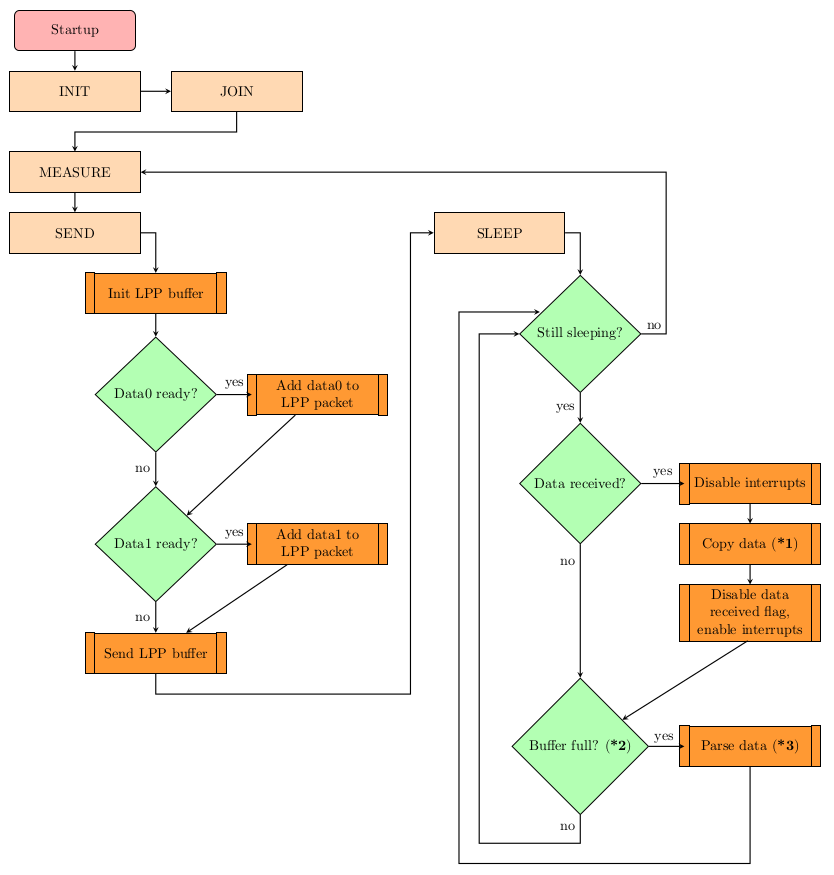
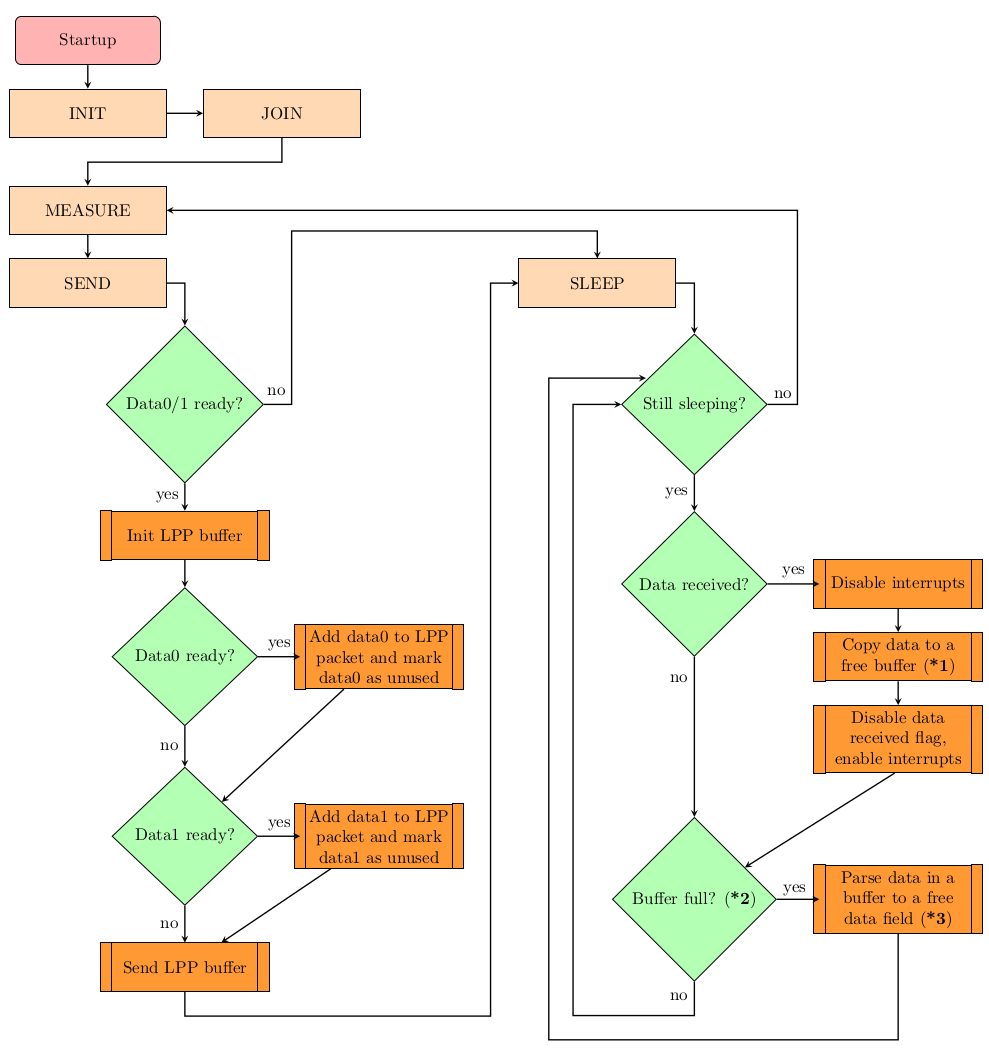
Add extra check to not send empty LPP packet and update flowchart

Changed region(s): [[0.0, 0.0, 0.9976, 1.0]]

diff --git a/EFM32-RN2483-Masterbuoy/src/main.c b/EFM32-RN2483-Masterbuoy/src/main.c
@@ -239,83 +239,89 @@ int main(void){
 			case SEND_MEASUREMENTS:{
 				/* BEGIN ADDED CODE *****************************************************************************************/
 				dbprintln("> SEND MEASUREMENTS");
-				/* END ADDED CODE *******************************************************************************************/
 
 				/* Send measurement data to "the cloud" */
+
 				// Convert sensor readings to LPP format
 				//int16_t tempLPP = (int16_t)(round((float)tData/100));
 				// uint8_t humidityLPP = (uint8_t)(rhData/500);
 				// int16_t batteryLPP = (int16_t)(round((float)batteryLevel/10));
 
-				// Initialize and fill LPP-formatted payload
-				if(!LPP_InitBuffer(&appData, 16)){
-					dbprintln("CRIT: Couldn't initialize LPP packet");
-					LED_ERROR(3);
-				}
-				/*
-				if(!LPP_AddTemperature(&appData, tempLPP)){
-					dbprintln("CRIT: Couldn't add temperature to LPP packet");
-					LED_ERROR(4);
-				}
-				if(!LPP_AddHumidity(&appData, humidityLPP)){
-					LED_ERROR(5);
-				}
-				if(!LPP_AddAnalog(&appData, batteryLPP)){
-					LED_ERROR(6);
-				}
-				*/
-
-				/* BEGIN ADDED CODE *****************************************************************************************/
-
-				/* Add ready data to LPP packets */
-
-				if (data0_ready)
+				if (data0_ready || data1_ready)
 				{
-					/* Add data to packet (go to error if not successful)
-					 *   NOTE: The VBAT value gets send to Cayenne with an ID-offset of "1"!
-					 */
-					if (!LPP_AddBuoy(&appData, id0, rssi0, vbat0))
+					// Initialize and fill LPP-formatted payload
+					if(!LPP_InitBuffer(&appData, 16)){
+						dbprintln("CRIT: Couldn't initialize LPP packet");
+						LED_ERROR(3);
+					}
+					/*
+					if(!LPP_AddTemperature(&appData, tempLPP)){
+						dbprintln("CRIT: Couldn't add temperature to LPP packet");
+						LED_ERROR(4);
+					}
+					if(!LPP_AddHumidity(&appData, humidityLPP)){
+						LED_ERROR(5);
+					}
+					if(!LPP_AddAnalog(&appData, batteryLPP)){
+						LED_ERROR(6);
+					}
+					*/
+
+					/* Add ready data to LPP packets */
+
+					if (data0_ready)
 					{
-						dbprintln("CRIT: Couldn't add data0 to LPP packet");
-						LED_ERROR(7);
+						/* Add data to packet (go to error if not successful)
+						 *   NOTE: The VBAT value gets send to Cayenne with an ID-offset of "1"!
+						 */
+						if (!LPP_AddBuoy(&appData, id0, rssi0, vbat0))
+						{
+							dbprintln("CRIT: Couldn't add data0 to LPP packet");
+							LED_ERROR(7);
+						}
+
+						/* Mark data buffer as free */
+						data0_ready = false;
+
+						dbprintln("INFO: data0 added to LPP packet");
 					}
 
-					/* Mark data buffer as free */
-					data0_ready = false;
-
-					dbprintln("INFO: data0 added to LPP packet");
-				}
-
-				if (data1_ready)
-				{
-					/* Add data to packet (go to error if not successful)
-					 *   NOTE: The VBAT value gets send to Cayenne with an ID-offset of "1"!
-					 */
-					if (!LPP_AddBuoy(&appData, id1, rssi1, vbat1))
+					if (data1_ready)
 					{
-						dbprintln("CRIT: Couldn't add data1 to LPP packet");
-						LED_ERROR(7);
+						/* Add data to packet (go to error if not successful)
+						 *   NOTE: The VBAT value gets send to Cayenne with an ID-offset of "1"!
+						 */
+						if (!LPP_AddBuoy(&appData, id1, rssi1, vbat1))
+						{
+							dbprintln("CRIT: Couldn't add data1 to LPP packet");
+							LED_ERROR(7);
+						}
+
+						/* Mark data buffer as free */
+						data1_ready = false;
+
+						dbprintln("INFO: data1 added to LPP packet");
 					}
 
-					/* Mark data buffer as free */
-					data1_ready = false;
-
-					dbprintln("INFO: data1 added to LPP packet");
-				}
-
-				// Send LPP-formatted payload
-				if(LoRa_SendLppBuffer(appData, LORA_UNCONFIMED) != SUCCESS){
-#ifdef SKIPLORA
-					dbprintln("WARN: Couldn't send LPP-formatted payload but skipped for debugging");
-#else
-					dbprintln("CRIT: Couldn't send LPP-formatted payload");
-					LED_ERROR(8);
-#endif
+					// Send LPP-formatted payload
+					if(LoRa_SendLppBuffer(appData, LORA_UNCONFIMED) != SUCCESS){
+	#ifdef SKIPLORA
+						dbprintln("WARN: Couldn't send LPP-formatted payload but skipped for debugging");
+	#else
+						dbprintln("CRIT: Couldn't send LPP-formatted payload");
+						LED_ERROR(8);
+	#endif
+					}
+					else
+					{
+						dbprintln("INFO: LPP packet send successfully");
+					}
 				}
 				else
 				{
-					dbprintln("INFO: LPP packet send successfully");
+					dbprintln("INFO: No data to send");
 				}
+
 				/* END ADDED CODE *******************************************************************************************/
 
 

diff --git a/latex-flowchart/template-standlone-flowchart.tex b/latex-flowchart/template-standlone-flowchart.tex
@@ -44,19 +44,21 @@
             \node (measure) [process, below of=init, yshift=-0.5cm] {MEASURE};
             \node (send) [process, below of=measure] {SEND};
 
-            \node (lppInit) [subroutine, below of=send, xshift=2cm] {Init LPP buffer};
+            \node (dataReady) [decision, below of=send, xshift=2cm, yshift=-1cm] {Data0/1 ready?};
+
+            \node (lppInit) [subroutine, below of=dataReady, yshift=-1.2cm] {Init LPP buffer};
             \node (bar) [bar={lppInit}] at (lppInit.west) {};
             \node (bar) [bar={lppInit}] at (lppInit.east) {};
 
             \node (data0) [decision, below of=lppInit, yshift=-1cm] {Data0 ready?};
 
-            \node (addData0) [subroutine, right of=data0, xshift=2.5cm] {Add data0 to LPP packet};
+            \node (addData0) [subroutine, right of=data0, xshift=2.5cm] {Add data0 to LPP packet and mark data0 as unused};
             \node (bar) [bar={addData0}] at (addData0.west) {};
             \node (bar) [bar={addData0}] at (addData0.east) {};
 
             \node (data1) [decision, below of=data0, yshift=-2.2cm] {Data1 ready?};
 
-            \node (addData1) [subroutine, right of=data1, xshift=2.5cm] {Add data1 to LPP packet};
+            \node (addData1) [subroutine, right of=data1, xshift=2.5cm] {Add data1 to LPP packet and mark data1 as unused};
             \node (bar) [bar={addData1}] at (addData1.west) {};
             \node (bar) [bar={addData1}] at (addData1.east) {};
 
@@ -76,7 +78,7 @@
             \node (bar) [bar={disableInt}] at (disableInt.west) {};
             \node (bar) [bar={disableInt}] at (disableInt.east) {};
 
-            \node (copyData) [subroutine, below of=disableInt] {Copy data (\textbf{*1})};
+            \node (copyData) [subroutine, below of=disableInt] {Copy data to a free buffer (\textbf{*1})};
             \node (bar) [bar={copyData}] at (copyData.west) {};
             \node (bar) [bar={copyData}] at (copyData.east) {};
 
@@ -87,7 +89,7 @@
 
             \node (bufferFilled) [decision, below of=dataReceived, yshift=-5cm] {Buffer full? (\textbf{*2})};
 
-            \node (parseData) [subroutine, right of=bufferFilled, xshift=2.7cm] {Parse data (\textbf{*3})};
+            \node (parseData) [subroutine, right of=bufferFilled, xshift=2.7cm] {Parse data in a buffer to a free data field (\textbf{*3})};
             \node (bar) [bar={parseData}] at (parseData.west) {};
             \node (bar) [bar={parseData}] at (parseData.east) {};
 
@@ -99,8 +101,12 @@
             
             \draw [arrow] (join) |- ([shift={(-1cm,-0.5cm)}]join.south) -| (measure);
             \draw [arrow] (measure) -- (send);
-            \draw [arrow] (send) -| (lppInit);
-            \draw [arrow] (lppInit) -- (data0);
+
+            \draw [arrow] (send) -| (dataReady);
+            \draw [arrow] (dataReady) -- node[anchor=east] {yes} (lppInit);
+            \draw [arrow] (dataReady) -| ([shift={(2.2cm,5.2cm)}]dataReady.south) -| node[anchor=east, xshift=-6.3cm, yshift=-3.3cm] {no} (sleep);
+
+            \draw [arrow] (lppInit) --  (data0);
 
             \draw [arrow] (data0) -- node[anchor=south] {yes} (addData0);
             \draw [arrow] (data0) -- node[anchor=east] {no} (data1);
